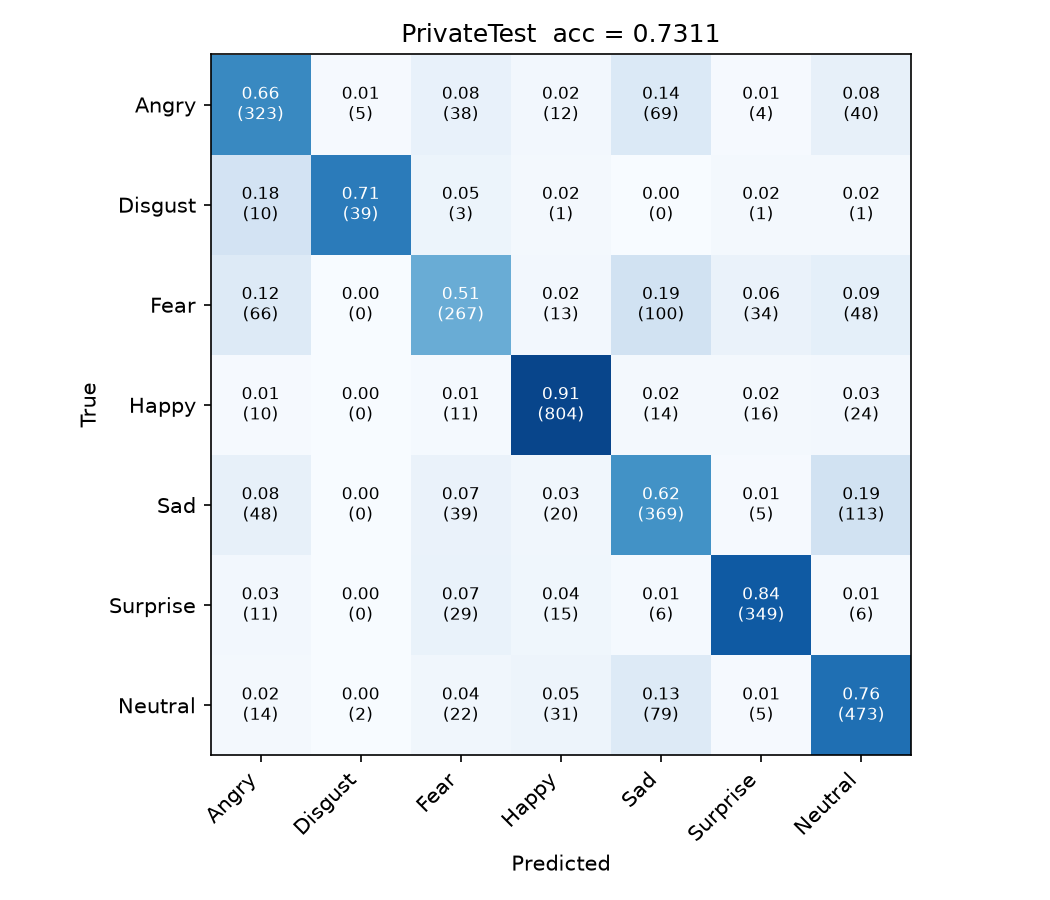
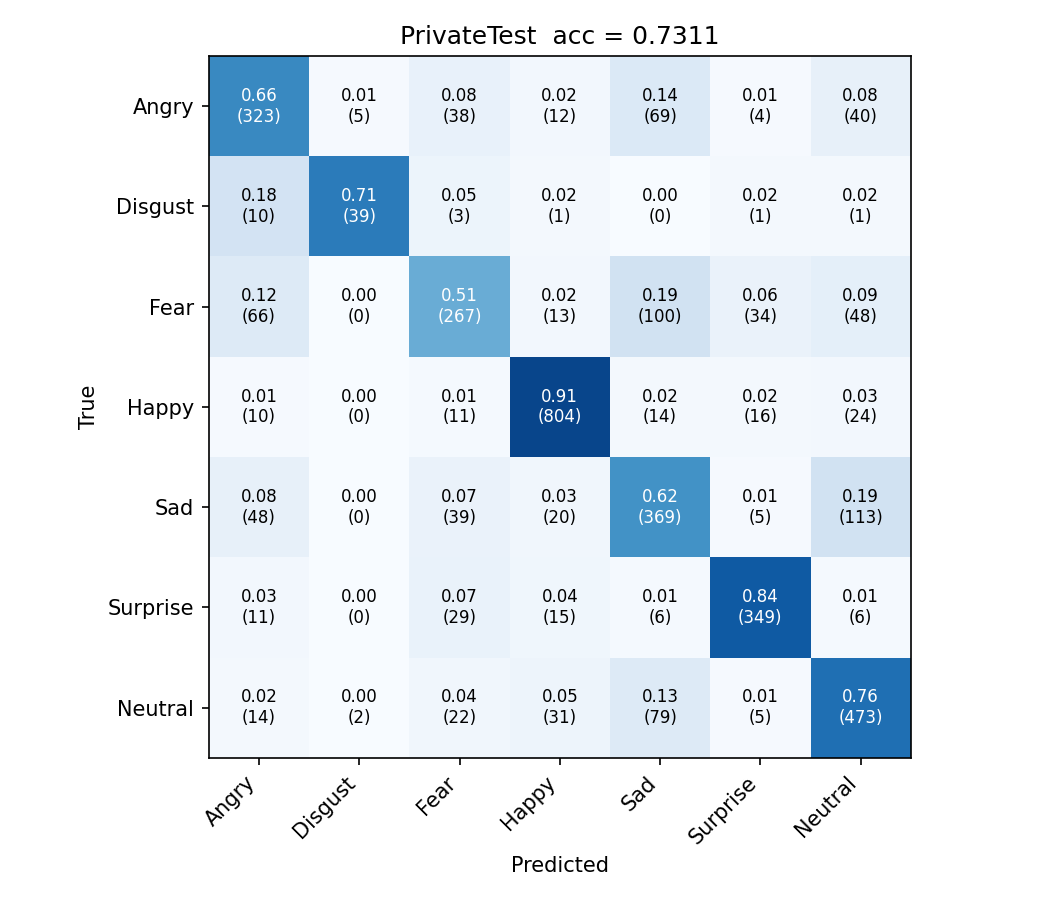
更新 .gitignore，添加 .ruff_cache 和 .gradio 目录；修改 README.md 中实验结果的准确率格式；重构 app.py 实时识别功能，优化数据传输；新增项目要求对照表文档；更新模型选择报告，补充消融实验结果；修正 metrics.json 中模型路径和准确率；新增 Windows 一键脚本 start_demo.bat 和 verify_test.bat。

diff --git a/app.py b/app.py
@@ -1,5 +1,8 @@
 """Gradio 演示：摄像头实时画框识别，或上传/拍照识别人脸表情。
 
+实时模式：服务器只返回人脸框坐标和概率（几百字节），框由浏览器直接画在摄像头画面上，
+不回传整张图片，延迟低；摄像头组件只作输入，录制/停止按钮状态稳定。
+
 流程：RGB 图 → YuNet 检测人脸 → 按双眼转正并裁剪 → 灰度 48x48 → 与评估完全相同的预处理和推理 → 7 类概率。
 前端只做演示，不参与评估；报告中的准确率全部来自 evaluate.py。
 
@@ -29,8 +32,6 @@ HAAR = cv2.CascadeClassifier(cv2.data.haarcascades + "haarcascade_frontalface_de
 DETECT_LOCK = threading.Lock()  # YuNet 检测器不是线程安全的
 DETECT_WIDTH = 320  # 实时模式下在缩小的画面上检测人脸，再把框映射回原图，速度快很多
 LIVE_SIZE = (640, 480)  # 向浏览器请求的摄像头分辨率，传输量小、延迟低
-BOX_COLOR = (234, 88, 12)  # 画框颜色（RGB）
-LABELS = [f"{zh} {en}" for zh, en in zip(CLASSES_ZH, CLASSES, strict=True)]
 
 
 # ---------------------------------------------------------------- 人脸检测与裁剪
@@ -101,47 +102,89 @@ def ensemble_probs(models, faces: list[np.ndarray]) -> np.ndarray:
     return (sum(model_probs(m, x, tta) for m, tta, _ in models) / len(models)).cpu().numpy()
 
 
-def to_label(probs: np.ndarray) -> dict[str, float]:
-    return {name: float(p) for name, p in zip(LABELS, probs, strict=True)}
+def prob_html(probs: np.ndarray | None) -> str:
+    """7 类概率按类别编号 0–6 固定顺序显示（不按大小排序），最高的一类加粗。"""
+    probs = np.zeros(len(CLASSES)) if probs is None else probs
+    top = int(probs.argmax()) if probs.any() else -1
+    rows = "".join(
+        f'<div class="prob-row{" top" if i == top else ""}">'
+        f'<span class="name">{i} {zh} {en}</span>'
+        f'<span class="bar"><span style="width:{p * 100:.1f}%"></span></span>'
+        f'<span class="pct">{p * 100:.1f}%</span></div>'
+        for i, (zh, en, p) in enumerate(zip(CLASSES_ZH, CLASSES, probs, strict=True)))
+    return f'<div class="probs">{rows}</div>'
 
 
 def predict(models, rgb: np.ndarray | None):
-    """上传/拍照模式：返回 (7 类概率, 模型实际看到的 48x48 人脸)。"""
+    """上传/拍照模式：返回 (7 类概率 HTML, 模型实际看到的 48x48 人脸)。"""
     if rgb is None:
-        return None, None
+        return prob_html(None), None
     face, found = crop_face(rgb)
     if not found:
         gr.Warning("未检测到人脸，已使用整张图片，结果可能不准。")
     preview = cv2.resize(face, (192, 192), interpolation=cv2.INTER_NEAREST)
-    return to_label(ensemble_probs(models, [face])[0]), preview
+    return prob_html(ensemble_probs(models, [face])[0]), preview
 
 
-def annotate(models, rgb: np.ndarray | None):
-    """实时模式：检测画面中的人脸（最多 5 张），直接在摄像头画面上画框并标出表情。
+def detect_live(models, rgb: np.ndarray | None):
+    """实时模式：检测画面中的人脸（最多 5 张）并成批识别。
 
-    返回 (标注后的画面, 最大人脸的 7 类概率)。
+    返回 (人脸列表给浏览器画框, 最大人脸的 7 类概率 HTML)。坐标归一化到 0–1，
+    与浏览器显示的画面一一对应（Gradio 发送的帧与预览一样做了镜像）。
     """
     if rgb is None:
-        return None, None
+        return {"faces": []}, prob_html(None)
     faces = detect_faces(rgb, max_width=DETECT_WIDTH)[:5]
     if not faces:
-        return rgb, None
+        return {"faces": []}, prob_html(None)
     gray = cv2.cvtColor(rgb, cv2.COLOR_RGB2GRAY)
     probs = ensemble_probs(models, [align_crop(gray, box, eyes) for box, eyes in faces])
-    out = rgb.copy()
-    thick = max(2, rgb.shape[1] // 320)
-    font = 0.45 * thick
+    h, w = gray.shape
+    out = []
     for (box, _), p in zip(faces, probs, strict=True):
-        x, y, w, h = box.astype(int)
         top = int(p.argmax())
-        text = f"{CLASSES[top]} {p[top] * 100:.0f}%"
-        (tw, th), _ = cv2.getTextSize(text, cv2.FONT_HERSHEY_SIMPLEX, font, thick)
-        ty = max(y, th + 8)
-        cv2.rectangle(out, (x, y), (x + w, y + h), BOX_COLOR, thick)
-        cv2.rectangle(out, (x, ty - th - 8), (x + tw + 8, ty), BOX_COLOR, -1)
-        cv2.putText(out, text, (x + 4, ty - 4), cv2.FONT_HERSHEY_SIMPLEX, font,
-                    (255, 255, 255), thick, cv2.LINE_AA)
-    return out, to_label(probs[0])
+        out.append({"box": [float(box[0] / w), float(box[1] / h), float(box[2] / w), float(box[3] / h)],
+                    "text": f"{CLASSES[top]} {p[top] * 100:.0f}%"})
+    return {"faces": out}, prob_html(probs[0])
+
+
+# 浏览器端画框：在摄像头 <video> 上叠一层 canvas。超过 1 秒没有新结果（停止录制）就清空。
+DRAW_JS = """
+(data) => {
+  const video = document.querySelector('#live-cam video');
+  if (!video) return;
+  const host = video.parentElement;
+  let cv = host.querySelector('canvas.face-overlay');
+  if (!cv) {
+    cv = document.createElement('canvas');
+    cv.className = 'face-overlay';
+    host.style.position = 'relative';
+    host.appendChild(cv);
+  }
+  const vr = video.getBoundingClientRect(), hr = host.getBoundingClientRect();
+  Object.assign(cv.style, {left: (vr.left - hr.left) + 'px', top: (vr.top - hr.top) + 'px',
+                           width: vr.width + 'px', height: vr.height + 'px'});
+  cv.width = vr.width; cv.height = vr.height;
+  const ctx = cv.getContext('2d');
+  ctx.clearRect(0, 0, cv.width, cv.height);
+  clearTimeout(window.ferClear);
+  window.ferClear = setTimeout(() => ctx.clearRect(0, 0, cv.width, cv.height), 1000);
+  const vw = video.videoWidth, vh = video.videoHeight;
+  if (!vw || !data || !data.faces) return;
+  const fit = getComputedStyle(video).objectFit;   // 视频在元素里的实际显示区域
+  const s = fit === 'cover' ? Math.max(vr.width / vw, vr.height / vh) : Math.min(vr.width / vw, vr.height / vh);
+  const ox = (vr.width - vw * s) / 2, oy = (vr.height - vh * s) / 2;
+  ctx.lineWidth = 2; ctx.font = '14px sans-serif'; ctx.textBaseline = 'top';
+  for (const f of data.faces) {
+    const [x, y, w, h] = f.box;
+    const X = ox + x * vw * s, Y = oy + y * vh * s, W = w * vw * s, H = h * vh * s;
+    ctx.strokeStyle = '#ea580c'; ctx.strokeRect(X, Y, W, H);
+    const tw = ctx.measureText(f.text).width + 8, ty = Math.max(0, Y - 20);
+    ctx.fillStyle = '#ea580c'; ctx.fillRect(X - 1, ty, tw, 20);
+    ctx.fillStyle = '#fff'; ctx.fillText(f.text, X + 3, ty + 3);
+  }
+}
+"""
 
 
 # ---------------------------------------------------------------- 界面
@@ -168,7 +211,16 @@ def make_examples() -> list[str]:
     return paths
 
 
-CSS = ".live {max-width: 720px; margin: 0 auto;}"  # 实时页居中
+CSS = """
+canvas.face-overlay {position: absolute; pointer-events: none; z-index: 5;}
+.probs {display: flex; flex-direction: column; gap: 10px; padding: 8px 4px;}
+.prob-row {display: grid; grid-template-columns: 9.5em 1fr 3.8em; align-items: center; gap: 10px;}
+.prob-row .bar {height: 8px; background: var(--neutral-200); border-radius: 4px; overflow: hidden;}
+.prob-row .bar span {display: block; height: 100%; background: var(--neutral-400);}
+.prob-row.top {font-weight: 600;}
+.prob-row.top .bar span {background: var(--primary-500);}
+.prob-row .pct {text-align: right; font-variant-numeric: tabular-nums;}
+"""
 
 THEME = gr.themes.Default(
     primary_hue=gr.themes.colors.orange,
@@ -180,25 +232,32 @@ THEME = gr.themes.Default(
 def build_app(models, runs: list[Path]) -> gr.Blocks:
     with gr.Blocks(title="人脸表情识别") as demo:
         gr.Markdown(f"# 人脸表情识别\n{model_info(runs)}")
-        with gr.Tab("实时摄像头"), gr.Column(elem_classes="live"):
-            # Gradio 官方“Unified Image”写法：摄像头组件同时作为输入和输出，框直接画在摄像头画面上
-            cam = gr.Image(sources=["webcam"], streaming=True, type="numpy", label="摄像头（点击录制开始实时识别）",
-                           webcam_options=gr.WebcamOptions(constraints={"video": {
-                               "width": LIVE_SIZE[0], "height": LIVE_SIZE[1]}}))
-            live_label = gr.Label(num_top_classes=3, label="最大人脸的表情")
+        with gr.Tab("实时摄像头"), gr.Row(equal_height=False):
+            with gr.Column(scale=3):
+                # 摄像头只作输入（Gradio 官方推荐的分离写法）；把它同时作输出会让录制/停止按钮来回闪
+                cam = gr.Image(sources=["webcam"], streaming=True, type="numpy", elem_id="live-cam",
+                               label="摄像头（点击录制开始实时识别）",
+                               webcam_options=gr.WebcamOptions(constraints={"video": {
+                                   "width": LIVE_SIZE[0], "height": LIVE_SIZE[1]}}))
+            with gr.Column(scale=2):
+                gr.Markdown("**最大人脸的表情概率**")
+                live_probs = gr.HTML(prob_html(None))
+                live_faces = gr.JSON(visible="hidden")
         with gr.Tab("上传 / 拍照"), gr.Row(equal_height=False):
             with gr.Column(scale=1):
                 image = gr.Image(sources=["upload", "webcam", "clipboard"], type="numpy", label="输入图像")
                 run_btn = gr.Button("识别表情", variant="primary")
                 gr.Examples(make_examples(), inputs=image, label="示例（PublicTest，每类一张）")
             with gr.Column(scale=1):
-                label = gr.Label(num_top_classes=7, label="识别结果")
+                gr.Markdown("**识别结果**")
+                label = gr.HTML(prob_html(None))
                 face = gr.Image(label="模型看到的人脸（48×48）", height=200, interactive=False)
 
-        cam.stream(lambda rgb: annotate(models, rgb), inputs=cam, outputs=[cam, live_label],
+        cam.stream(lambda rgb: detect_live(models, rgb), inputs=cam, outputs=[live_faces, live_probs],
                    stream_every=0.1, concurrency_limit=1, show_progress="hidden")
+        live_faces.change(None, inputs=live_faces, js=DRAW_JS, show_progress="hidden")
         run_btn.click(lambda rgb: predict(models, rgb), inputs=image, outputs=[label, face])
-        image.clear(lambda: (None, None), outputs=[label, face])
+        image.clear(lambda: (prob_html(None), None), outputs=[label, face])
     return demo
 
 

diff --git a/README.md b/README.md
@@ -28,12 +28,12 @@
 
 | 实验 | 改动 | PublicTest 准确率 | 说明 |
 |---|---|---|---|
-| A0 | 基线：无数据增强 | 58.62%（1 个种子） | 第 17 轮后严重过拟合（训练集 99.7%） |
-| A1 | + 随机翻转、旋转、平移、缩放 | 69.19%（3 个种子平均） | 提升约 10.6 个百分点，最明显的改进 |
-| A2 | + 标签平滑 0.1 | 69.26%（3 个种子平均） | 与 A1 的差距在种子波动范围内，不能说明更好 |
-| A3 | + Dropout 0.4 + RandomErasing | 68.57%（1 个种子） | 未见提升；到 100 轮上限时仍在缓慢上升 |
+| A0 | 基线：无数据增强 | 58.87% ± 0.61（3 个种子；翻转 TTA 59.35% ± 0.78） | 第 17 轮后严重过拟合（训练集 99.7%） |
+| A1 | + 随机翻转、旋转、平移、缩放 | 69.19% ± 0.52（3 个种子；TTA 70.08% ± 0.23） | 提升约 10.6 个百分点，最明显的改进 |
+| A2 | + 标签平滑 0.1 | 69.26% ± 0.46（3 个种子；TTA 69.50% ± 0.81） | 与 A1 的差距在种子波动范围内，不能说明更好 |
+| A3 | + Dropout 0.4 + RandomErasing | 68.83% ± 0.31（3 个种子；TTA 69.56% ± 0.21） | 未见稳定提升，略低于 A1/A2（差距在波动范围内） |
 
-- 结论只依据多次实验：A0→A1 的差距远大于种子间波动（约 ±0.5%）；A1 与 A2 无显著差别，因此两者一起做集成。
+- 结论只依据多次实验：A0→A1 的差距远大于种子间波动（标准差约 0.3–0.6%）；A1 与 A2 无显著差别，因此两者一起做集成。
 - 水平翻转 TTA 在 8 个模型中的 6 个上提高了 PublicTest 准确率，是否启用由每个模型各自在 PublicTest 上决定。
 - 集成：A1×3 为 71.50%，A2×3 为 70.63%，A1+A2×6 为 71.52%（均为 PublicTest），按预先约定的规则取最高者。
 - 每次训练的 loss / accuracy 记录在 `runs/<实验>_s<种子>/log.csv`，曲线在同目录 `curves.png`。
@@ -60,14 +60,14 @@ reports/          数据检查、方案选择、PrivateTest 报告
 tests/            自动测试
 assets/           YuNet 人脸检测模型（演示用）
 docs/             项目要求 PDF、技术方案、项目代码详解
-start_demo.bat / verify_test.bat / scripts/setup_env.bat   Windows 一键脚本
+scripts/           Windows 一键脚本：start_demo.bat、verify_test.bat、setup_env.bat
 ```
 
 ## 使用（Windows）
 
 1. 把数据文件 `icml_face_data.csv` 放进 `data/`（压缩包不含数据）。
-2. 双击 `verify_test.bat`：在 PrivateTest 上复核准确率，应输出 0.7311。
-3. 双击 `start_demo.bat`：启动网页演示并自动打开浏览器。
+2. 双击 `scripts\verify_test.bat`：在 PrivateTest 上复核准确率，应输出 0.7311。
+3. 双击 `scripts\start_demo.bat`：启动网页演示并自动打开浏览器。
 
 首次运行会自动创建 `.venv` 并安装依赖；检测到 NVIDIA 显卡时自动安装 GPU 版 PyTorch，没有显卡也能用 CPU 运行。第一次读取数据会解析 CSV 并生成缓存 `data/fer2013.npz`（约 1 分钟），之后约 1 秒。
 
@@ -93,7 +93,7 @@ pytest tests                            # 自动测试
 
 ## 局限
 
-- A0、A3 只跑了 1 个种子；A3 到 100 轮上限时可能还没完全收敛。
+- A3 在 100 轮上限附近仍有缓慢上升，可能没完全收敛。
 - 没有系统地比较学习率、批次大小和其他网络结构。
 - 厌恶（Disgust）训练样本只有 436 张，恐惧（Fear）的召回率最低（50.6%），与悲伤、愤怒容易混淆（见混淆矩阵）。
 

diff --git a/docs/要求对照表.md b/docs/要求对照表.md
@@ -1,0 +1,29 @@
+# 期末项目要求对照表
+
+对照《期末项目_人脸表情识别.pdf》逐条核对（2026-10-30）。
+
+| # | PDF 要求 | 我们的做法 | 证据 | 状态 |
+|---|---|---|---|---|
+| 1 | Python + PyTorch | 全部 Python，PyTorch 训练与推理 | requirements.txt | 已完成 |
+| 2 | 表情识别，不是身份识别；7 类 0–6 | 7 类，编号与 PDF 一致 | dataset.py `CLASSES` | 已完成 |
+| 3 | 读取 CSV，检查字段和划分 | 检查列名、每行 2304 像素、三个子集数量 | dataset.py、check_data.py | 已完成 |
+| 4 | 数据预处理 | 0–1 缩放 + 训练集均值方差标准化，训练时增强 | dataset.py `build_transform` | 已完成 |
+| 5 | 必要的数据检查 | 数量、标签、尺寸、空白图、跨子集重复图 | reports/data_check/ | 已完成 |
+| 6 | Training 28709 用于训练 | 只用它更新参数 | train.py | 已完成 |
+| 7 | PublicTest 3589 用于比较、调参、选模型 | 最佳轮次、学习率调整、早停、TTA、集成全按它选 | reports/model_selection.md | 已完成 |
+| 8 | PrivateTest 3589 仅最终评估，不训练不反复调参 | 方案确定后只评估一次；只有 evaluate.py 读取；有自动测试 | reports/PrivateTest_ensemble6/、tests | 已完成 |
+| 9 | 实现并训练分类模型 | ResNet18 三处改造适配 48×48 灰度，从头训练 | model.py、train.py | 已完成 |
+| 10 | 记录训练 Loss 和 Accuracy | 每轮写训练/验证 loss、acc 并画曲线 | runs/*/log.csv、curves.png | 已完成 |
+| 11 | 代码结构清晰、注释适当 | 按功能分 7 个文件，每个函数有中文说明 | 源码、README | 已完成 |
+| 12 | 说明主要模块和处理流程 | README + 代码详解文档 | README.md、docs/项目代码详解.md | 已完成 |
+| 13 | 鼓励：模型结构实验 | 只用 ResNet18，没比较其他网络 | 无 | 未做（鼓励项） |
+| 14 | 鼓励：学习率、批次大小实验 | 固定 lr 0.01、batch 128，没系统搜索 | 无 | 未做（鼓励项） |
+| 15 | 鼓励：数据增强实验 | A0–A3 消融：增强、标签平滑、Dropout + RandomErasing | README 实验表 | 已完成 |
+| 16 | 改进结论要有充分实验支撑 | A1、A2 各 3 个种子；A0、A3 只有 1 个种子 | README | 部分完成 |
+| 17 | 模型性能（30%） | PrivateTest 73.11%（3589 张），scripts/verify_test.bat 可现场复现 | metrics.json | 已完成 |
+| 18 | 代码质量（20%）：可读、可复现、无冗余 | 固定随机种子、配置全保存、ruff 检查、7 项 pytest | config.json、tests | 已完成 |
+| 19 | 代码理解（40%）：每人能讲预处理、模型、训练、损失、评估 | 代码详解文档含逐模块讲解和常见问答 | docs/项目代码详解.md | 需组员自行准备 |
+| 20 | 团队合作（10%）：分工明确、能说清个人贡献 | 无 | 无 | 需你们自己准备 |
+| 21 | 学术诚信：说明参考来源 | 写明参考 LetheSec 项目，代码自写，未用其权重；YuNet 只用于演示 | README、references/references.yaml | 已完成 |
+| 22 | 不得伪造数据、虚报准确率 | 所有数字来自日志和评估报告 | runs/、reports/ | 已完成 |
+| 23 | 验收前准备可运行代码、数据文件、实验结果 | 代码、6 个模型、报告都在 zip 里；CSV 不在 zip 里 | fer_final.zip | 需自带 CSV |

diff --git a/reports/model_selection.md b/reports/model_selection.md
@@ -4,6 +4,8 @@
 | run | 最佳轮 | val_acc | val_acc（翻转 TTA） | 采用 TTA |
 |---|---|---|---|---|
 | A0_s0（无增强） | 17 | 0.5862 | 0.5857 | 否 |
+| A0_s1 | 20 | 0.5843 | 0.5935 | 是 |
+| A0_s2 | 32 | 0.5957 | 0.6013 | 是 |
 | A1_s0（+增强） | 50 | 0.6918 | 0.7008 | 是 |
 | A1_s1 | 55 | 0.6868 | 0.6985 | 是 |
 | A1_s2 | 77 | 0.6971 | 0.7030 | 是 |
@@ -11,6 +13,8 @@
 | A2_s1 | 67 | 0.6877 | 0.6857 | 否 |
 | A2_s2 | 54 | 0.6969 | 0.7002 | 是 |
 | A3_s0（+Dropout0.4+RandomErasing） | 92 | 0.6857 | 0.6943 | 是 |
+| A3_s1 | 60 | 0.6874 | 0.6946 | 是 |
+| A3_s2 | 81 | 0.6918 | 0.6980 | 是 |
 
 阶段 1 按 PublicTest 选出前 2 名配置：A1、A2，各补 seed1、seed2。
 
@@ -24,3 +28,13 @@
 
 选定：A1+A2 六模型集成（PublicTest 最高；与 A1 三模型集成仅差 1 张图，按预先约定的规则取最高者）。写入 final_runs.txt。
 明细在 reports/selection/。
+
+## 消融：A0–A3 各 3 个 seed 的 PublicTest 均值 ± 标准差（阶段 7 补齐）
+| 配置 | val_acc | val_acc（翻转 TTA） |
+|---|---|---|
+| A0 无增强 | 58.87 ± 0.61 | 59.35 ± 0.78 |
+| A1 +增强 | 69.19 ± 0.52 | 70.08 ± 0.23 |
+| A2 +标签平滑 | 69.26 ± 0.46 | 69.50 ± 0.81 |
+| A3 +Dropout+RandomErasing | 68.83 ± 0.31 | 69.56 ± 0.21 |
+
+结论：数据增强稳定提升约 10 个百分点；标签平滑、Dropout+RandomErasing 无稳定提升（差距在种子波动内）。最终方案不变。

diff --git a/docs/项目代码详解.md b/docs/项目代码详解.md
@@ -208,7 +208,13 @@ GPU 上用 `torch.autocast` + `GradScaler`：部分计算用 float16，速度更
 
 ### 实时摄像头
 
-采用 Gradio 官方文档的 “Unified Image” 写法：摄像头组件同时作为 stream 事件的输入和输出，每 0.1 秒取一帧，缩小到 320 宽检测人脸 → 所有人脸一次成批推理 → 直接在摄像头画面上画框写表情，下方显示最大那张脸的前三个表情。
+左边是摄像头，右边按类别 0–6 固定顺序显示最大那张脸的 7 类概率。每 0.1 秒浏览器发一帧给服务器（`cam.stream`）：
+
+1. `detect_live`：缩小到 320 宽检测人脸 → 所有人脸一次成批推理；
+2. 服务器只返回人脸框坐标（归一化到 0–1）和文字，几百字节，而不是整张图片；
+3. `DRAW_JS`：浏览器在摄像头画面上叠一层 canvas，直接画框和表情；1 秒没有新结果（停止录制）就清空。
+
+为什么这样做：如果把画好框的整张图回传，要么需要右边再放一个图片框（双倍渲染），要么让摄像头组件同时作输入和输出——后者在 Gradio 6 里会让“录制/停止”按钮来回闪（已在无头浏览器中复现）。只回传坐标、浏览器端画框，是实时检测类网页的常见做法，传输量最小。
 
 页头的准确率直接读取 `reports/` 中 `evaluate.py` 生成的结果，前端不做任何评估。
 
